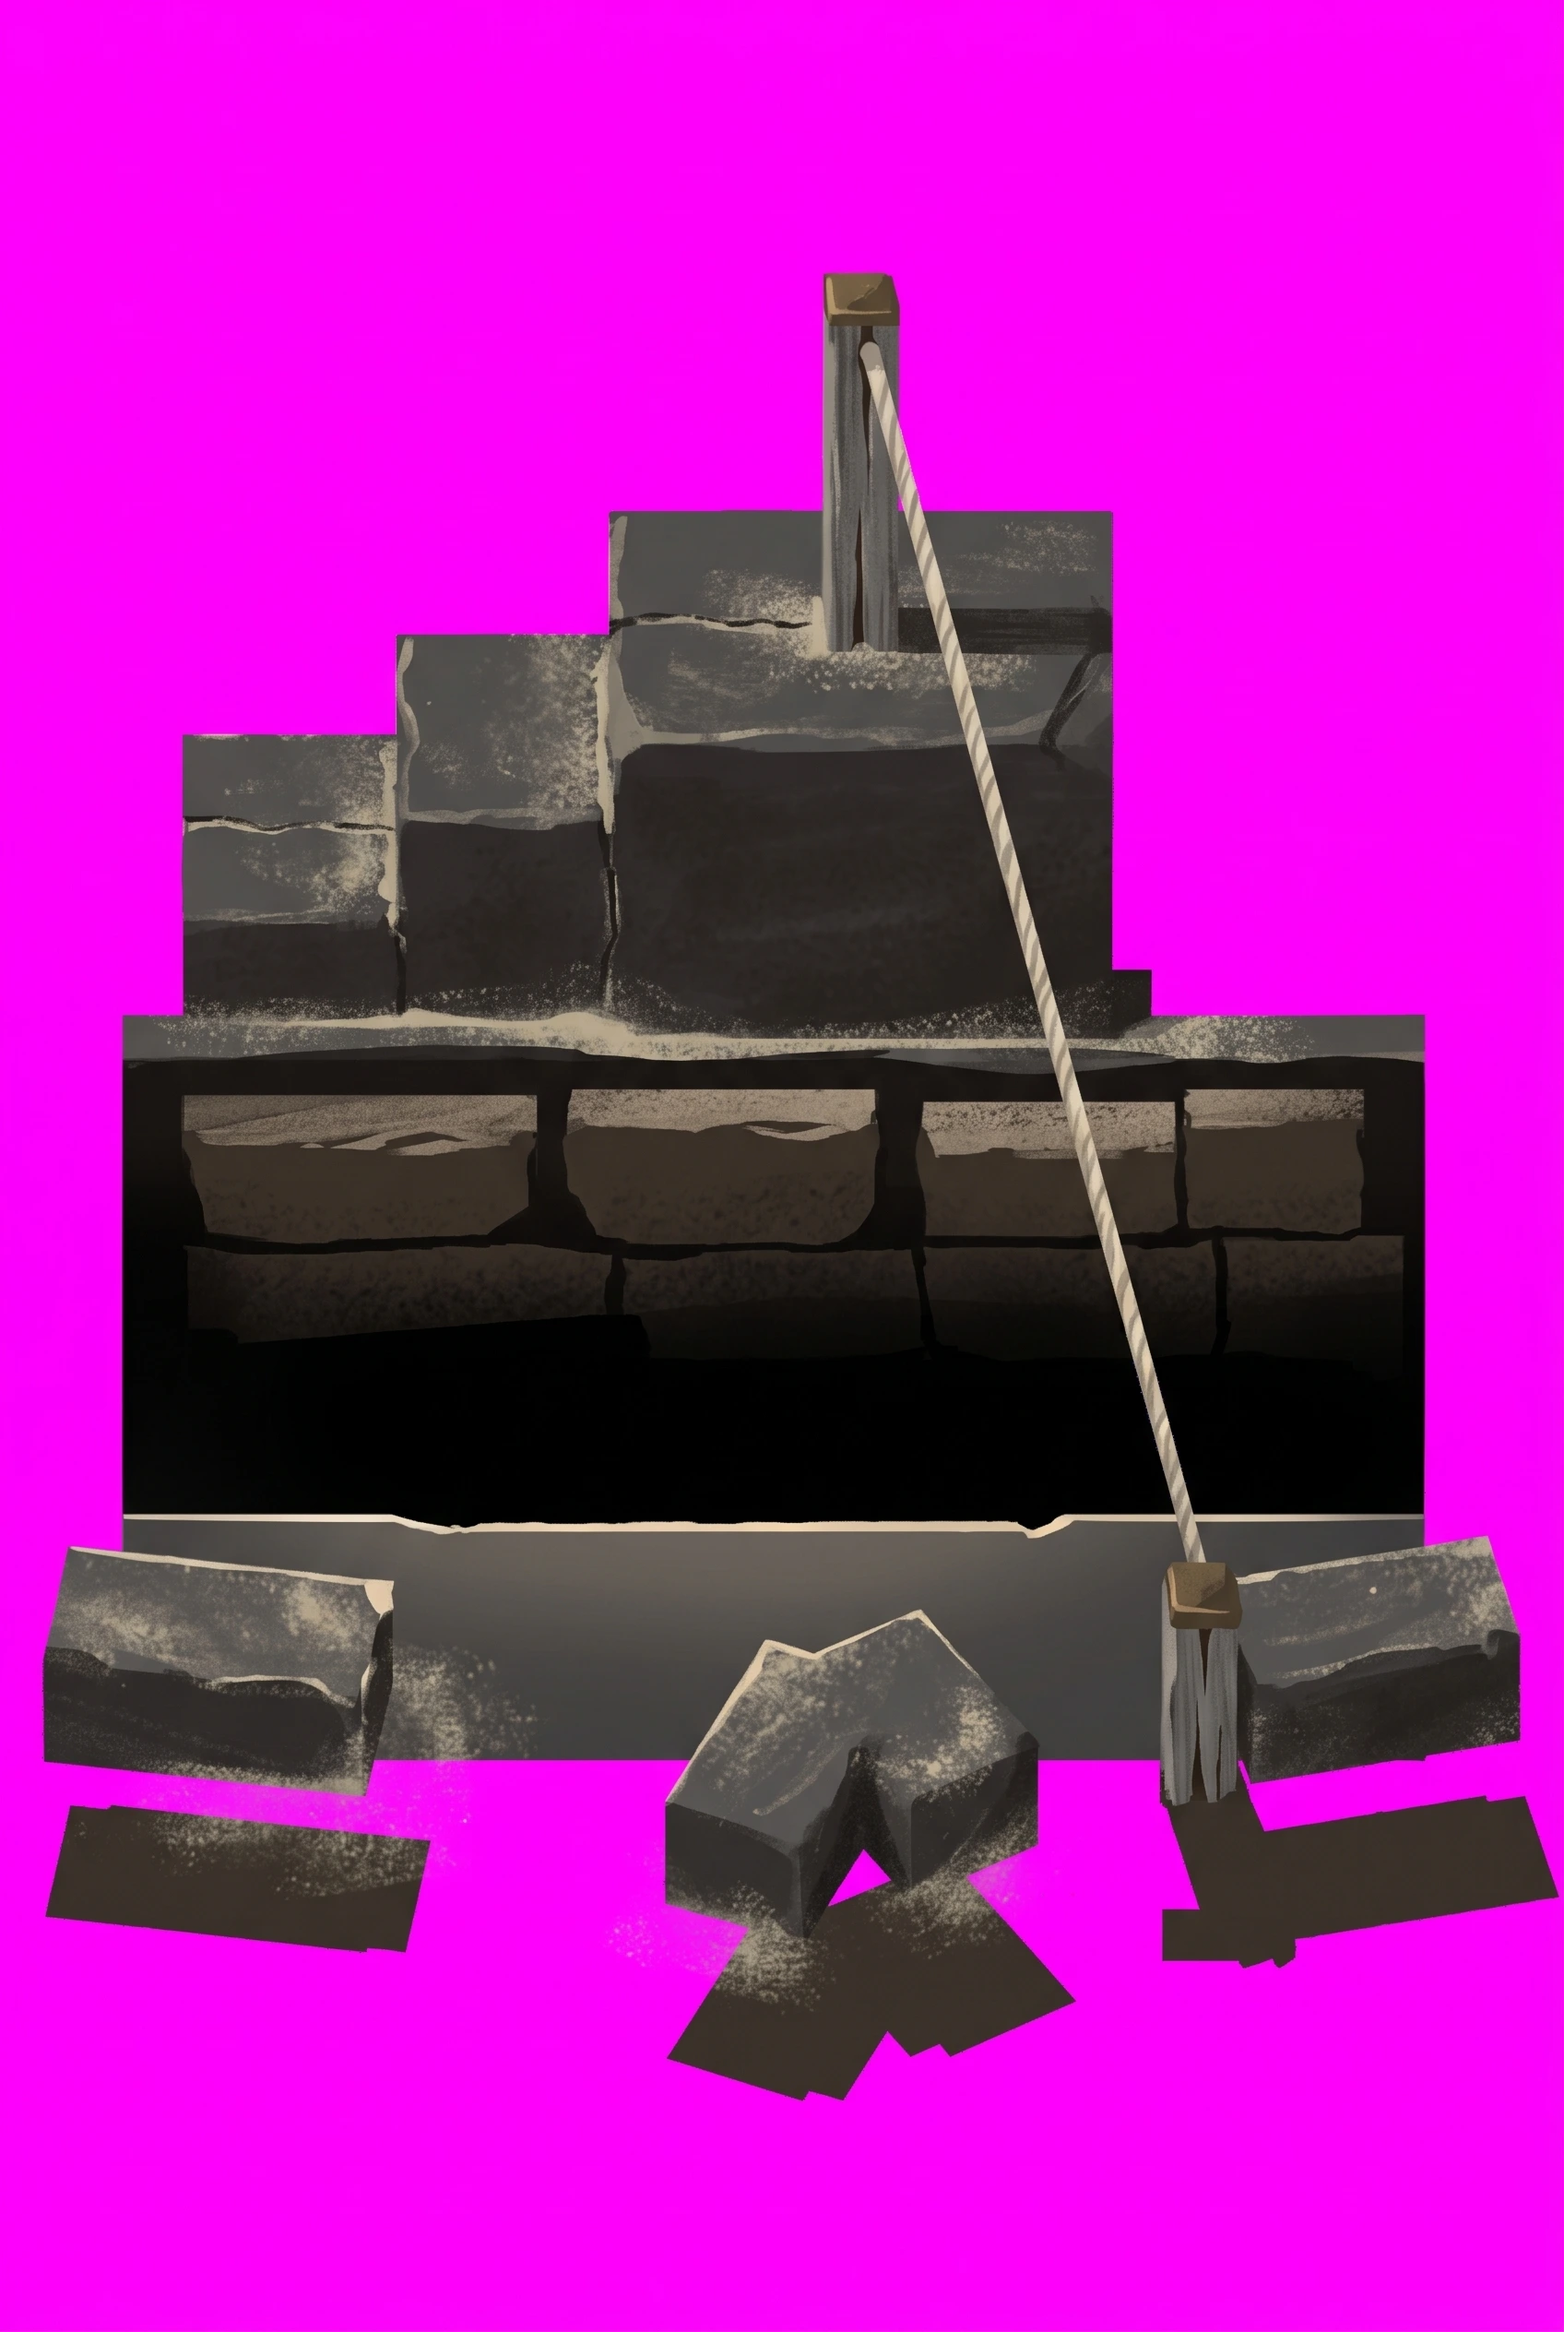
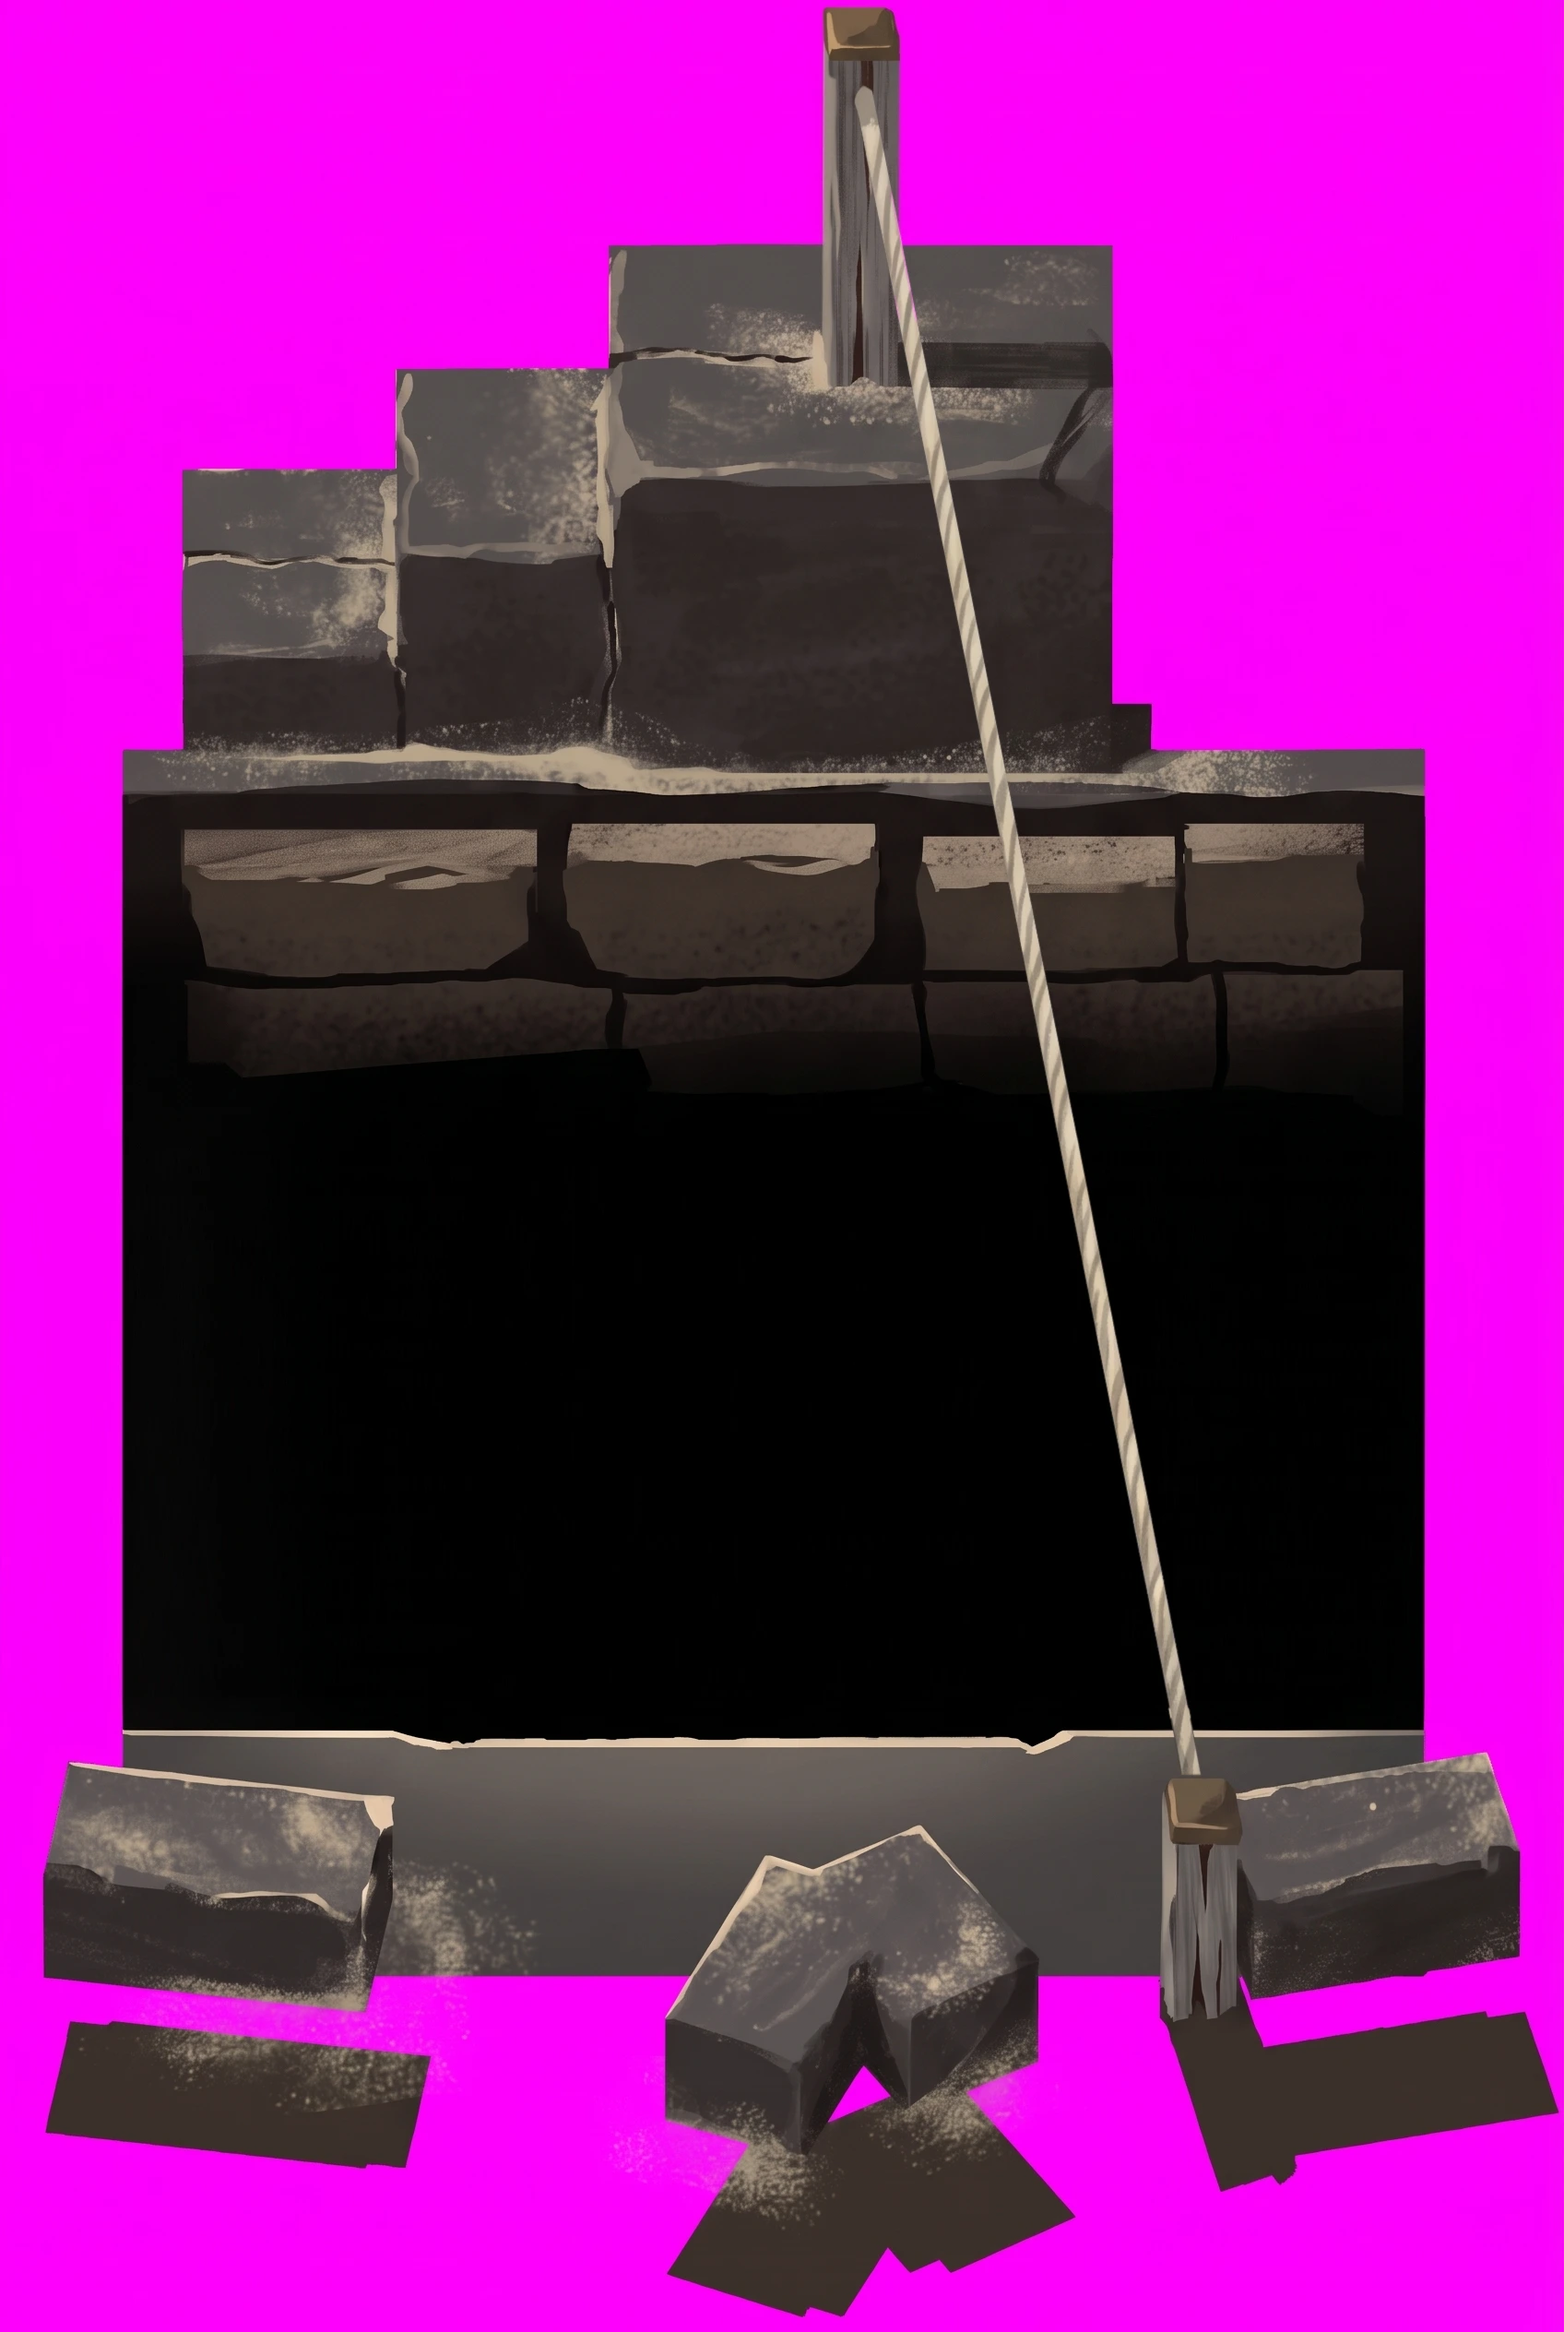
feat: a south drop carries more of its run
Claude-Session: https://claude.ai/code/session_01TAqDBDsDMGCN1rpWgHWmPJ

diff --git a/src/app/SiteMap/mapScale.ts b/src/app/SiteMap/mapScale.ts
@@ -98,18 +98,20 @@ export const DROP_H = 81
  * dropEast's spoil stands proud above its own. North's marks are 861 master pixels apart, which over a
  * 56-unit corridor is 15.375 pixels to a unit, and the tile measures 215 x 286 pixels at that scale.
  *
- * South is marked the same way, 1186 pixels over 56, giving 21.18 and a 156 x 187 tile.
+ * South is marked the same way, 1186 pixels over 56, giving 21.18 and a 155 x 237 tile. Its master was
+ * stretched down the page by hand after painting, which is why its ink is taller than the scaffold it was
+ * painted on and why it is imported on the chroma key alone — the rendered mask no longer fits it.
  *
  * NEITHER COVERS ITS RUN, AND THE ART IS NOT THE PLACE TO FIX IT. A vertical run is 224 units down the page
  * (ROW_PITCH x 2 + CELL) against a horizontal one's 196; dropEast covers 87% of its run, north 64%, south
- * 42%. Lengthening the mouth to close that was tried and reverted — it works in the mesh and loses the
+ * 53%. Lengthening the mouth to close that was tried and reverted — it works in the mesh and loses the
  * projection in the paint (docs/instructions/repaint-queue.md, the convergence rule). What is left over is
  * ordinary paving drawn inside a gap the player cannot cross, and that belongs to whatever draws the
  * obstacle's cells, not to a number here. */
 export const DROP_NORTH_W = 107.5
 export const DROP_NORTH_H = 143
-export const DROP_SOUTH_W = 78
-export const DROP_SOUTH_H = 93.5
+export const DROP_SOUTH_W = 77.5
+export const DROP_SOUTH_H = 118.5
 
 /** The sprite's box for a drop whose run is `cells` and which travels `dir`. A horizontal drop is centred on
  * its run with its bottom on the run's floor line; a vertical one is centred on its run both ways, because
